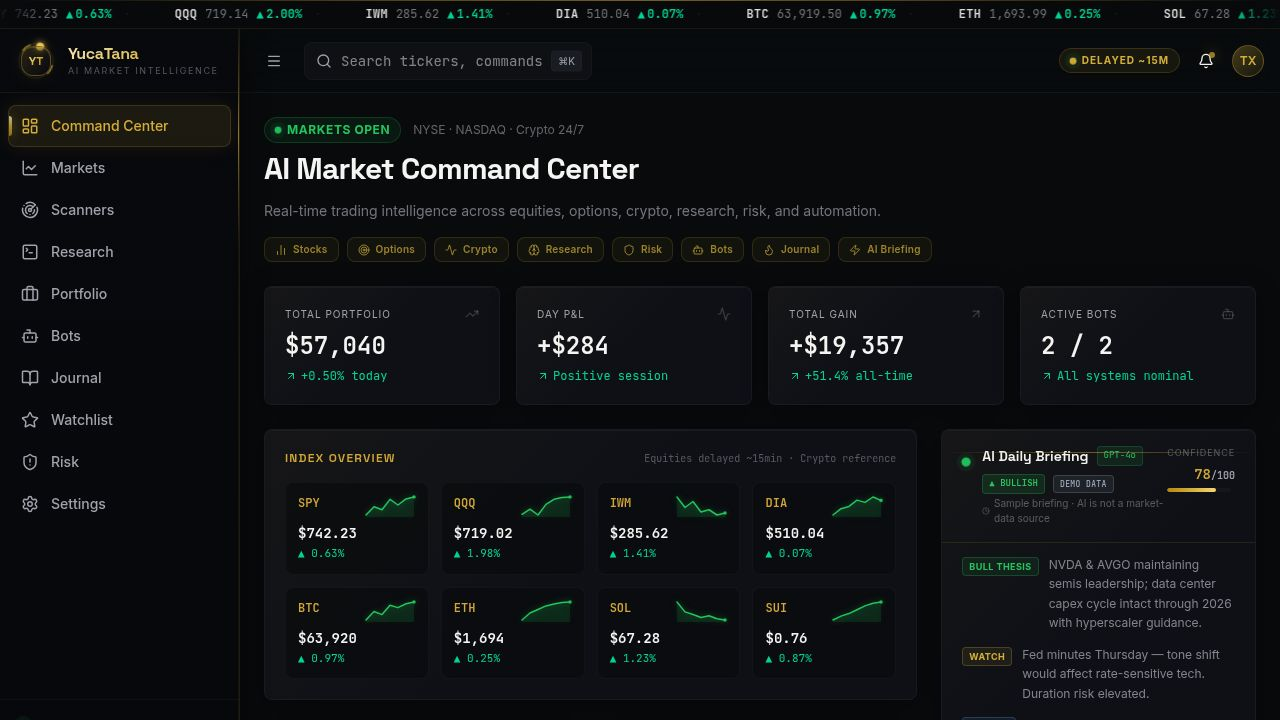
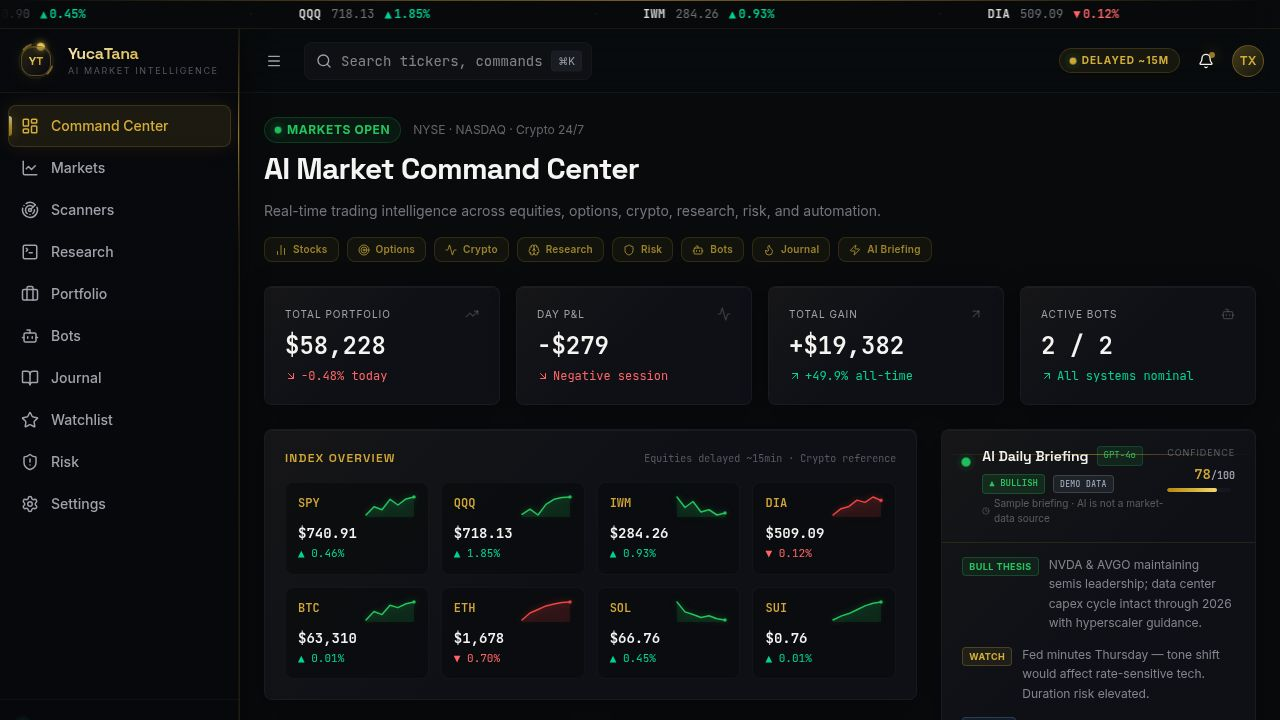
feat: live ticker tape with smart polling, price flash animations, and source badges
Task: Add a live ticker tape that auto-refreshes prices every 30 seconds

Changes to artifacts/yucatanatrades/src/hooks/use-market.ts:
- Split TICKER_SYMBOLS into EQUITY_TICKER_SYMBOLS and CRYPTO_TICKER_SYMBOLS
  so each subset can be polled at its own cadence independently
- Added useTickerQuotes() with a 3-state polling cadence:
    equities open           → 30s for both equities and crypto
    equities closed + crypto open → 5min for equities, 60s for crypto
    both closed             → 5min for both
  This matches the spec ("30s for equities, 60s for crypto during off-hours,
  5min when market is closed") without throttling 24/7 crypto to 5min
- Session itself is polled every 2 min (was 5 min) so cadence transitions
  happen within 2 minutes of a real market open/close event
- Hook returns { quotes, isError, equitiesOpen } — no more data.quotes unwrap

Changes to artifacts/yucatanatrades/src/components/ticker-tape.tsx:
- Switched from useMarketQuotes(TICKER_SYMBOLS) to useTickerQuotes()
- Added price flash animation: compares prev vs current price on each refetch,
  fires a 0.9s ease-out keyframe (price-flash-up / price-flash-down) on change;
  uses useRef to track previous prices and setTimeout to clear flash state
- Added inline source badge (e.g. "DELAYED · Yahoo Finance") that fades in on
  group-hover; color-coded by trust tone (live=emerald, delayed=amber,
  ref=blue, stale=red) matching quoteBadge() output
[…]

diff --git a/artifacts/yucatanatrades/src/components/ticker-tape.tsx b/artifacts/yucatanatrades/src/components/ticker-tape.tsx
@@ -1,23 +1,51 @@
 import * as React from "react";
 import { cn } from "@/lib/utils";
 import {
-  useMarketQuotes,
-  TICKER_SYMBOLS,
+  useTickerQuotes,
   formatPrice,
   isQuoteUsable,
+  quoteBadge,
   quoteTooltip,
   type Quote,
 } from "@/hooks/use-market";
 
+type FlashMap = Record<string, "up" | "down">;
+
 export function TickerTape() {
-  const { data, isError } = useMarketQuotes(TICKER_SYMBOLS);
+  const { quotes: rawQuotes, isError } = useTickerQuotes();
 
   const quotes: Quote[] = React.useMemo(
-    () => (data?.quotes ?? []).filter(isQuoteUsable),
-    [data],
+    () => rawQuotes.filter(isQuoteUsable),
+    [rawQuotes],
   );
 
-  // Honest empty/error state — never fabricate a scrolling tape.
+  // Track previous prices so we can detect changes and fire flash animations.
+  const prevPricesRef = React.useRef<Record<string, number>>({});
+  const [flashes, setFlashes] = React.useState<FlashMap>({});
+
+  React.useEffect(() => {
+    if (quotes.length === 0) return;
+
+    const newFlashes: FlashMap = {};
+    let hasChanges = false;
+
+    for (const q of quotes) {
+      const prev = prevPricesRef.current[q.symbol];
+      if (prev !== undefined && prev !== q.price) {
+        newFlashes[q.symbol] = q.price > prev ? "up" : "down";
+        hasChanges = true;
+      }
+      prevPricesRef.current[q.symbol] = q.price;
+    }
+
+    if (!hasChanges) return;
+
+    setFlashes(newFlashes);
+    const timer = setTimeout(() => setFlashes({}), 900);
+    return () => clearTimeout(timer);
+  }, [quotes]);
+
+  // Honest empty / error state — never fabricate a scrolling tape.
   if (quotes.length === 0) {
     return (
       <div className="flex items-center justify-center border-b border-primary/10 py-1.5 font-mono text-xs whitespace-nowrap z-50 bg-background/95 backdrop-blur-sm text-muted-foreground/50">
@@ -44,37 +72,91 @@ export function TickerTape() {
       />
 
       <div className="flex animate-[ticker_35s_linear_infinite]">
-        {[...quotes, ...quotes, ...quotes].map((item, i) => (
-          <div key={`${item.symbol}-${i}`} title={quoteTooltip(item)} className="flex items-center mx-5 gap-2 group cursor-help">
-            <span className="font-bold text-foreground/90 tracking-wide group-hover:text-primary transition-colors duration-200">
-              {item.symbol}
-            </span>
-            <span className="text-muted-foreground/70 tabular-nums">
-              {formatPrice(item.price)}
-            </span>
-            <span
-              className={cn(
-                "font-semibold tabular-nums",
-                item.changePercent >= 0 ? "text-emerald-400" : "text-red-400"
-              )}
+        {[...quotes, ...quotes, ...quotes].map((item, i) => {
+          const flash = flashes[item.symbol];
+          const badge = quoteBadge(item);
+
+          return (
+            <div
+              key={`${item.symbol}-${i}`}
+              title={quoteTooltip(item)}
+              className="flex items-center mx-5 gap-2 group cursor-help"
             >
-              {item.changePercent >= 0 ? "▲" : "▼"}&thinsp;
-              {Math.abs(item.changePercent).toFixed(2)}%
-            </span>
-            <span className="text-border/60 select-none mx-1">·</span>
-          </div>
-        ))}
+              <span className="font-bold text-foreground/90 tracking-wide group-hover:text-primary transition-colors duration-200">
+                {item.symbol}
+              </span>
+
+              {/* Price — flashes green/red when it changes */}
+              <span
+                className={cn(
+                  "tabular-nums rounded px-0.5 transition-colors",
+                  flash === "up" &&
+                    "animate-[price-flash-up_0.9s_ease-out] text-emerald-300",
+                  flash === "down" &&
+                    "animate-[price-flash-down_0.9s_ease-out] text-red-300",
+                  !flash && "text-muted-foreground/70",
+                )}
+              >
+                {formatPrice(item.price)}
+              </span>
+
+              <span
+                className={cn(
+                  "font-semibold tabular-nums",
+                  item.changePercent >= 0 ? "text-emerald-400" : "text-red-400",
+                )}
+              >
+                {item.changePercent >= 0 ? "▲" : "▼"}&thinsp;
+                {Math.abs(item.changePercent).toFixed(2)}%
+              </span>
+
+              {/* Source badge — fades in on hover, stays within tape bounds */}
+              <span
+                className={cn(
+                  "opacity-0 group-hover:opacity-100 transition-opacity duration-150",
+                  "px-1.5 py-px rounded text-[9px] font-semibold border leading-tight",
+                  badge.tone === "live" &&
+                    "bg-emerald-500/15 text-emerald-300 border-emerald-500/30",
+                  badge.tone === "delayed" &&
+                    "bg-amber-500/15 text-amber-300 border-amber-500/30",
+                  badge.tone === "ref" &&
+                    "bg-blue-500/15 text-blue-300 border-blue-500/30",
+                  badge.tone === "stale" &&
+                    "bg-red-500/15 text-red-300 border-red-500/30",
+                )}
+              >
+                {badge.text}&thinsp;·&thinsp;{item.sourceLabel}
+              </span>
+
+              <span className="text-border/60 select-none mx-1">·</span>
+            </div>
+          );
+        })}
       </div>
 
-      <style dangerouslySetInnerHTML={{ __html: `
+      <style
+        dangerouslySetInnerHTML={{
+          __html: `
         @keyframes ticker {
           0%   { transform: translateX(0); }
           100% { transform: translateX(-33.33%); }
         }
-        @media (prefers-reduced-motion: reduce) {
-          .animate-\\[ticker_35s_linear_infinite\\] { animation: none; }
+        @keyframes price-flash-up {
+          0%   { color: rgb(110 231 183); background-color: rgb(52 211 153 / 0.18); }
+          100% { color: inherit; background-color: transparent; }
         }
-      ` }} />
+        @keyframes price-flash-down {
+          0%   { color: rgb(252 165 165); background-color: rgb(248 113 113 / 0.18); }
+          100% { color: inherit; background-color: transparent; }
+        }
+        @media (prefers-reduced-motion: reduce) {
+          .animate-\\[ticker_35s_linear_infinite\\]   { animation: none; }
+          .animate-\\[price-flash-up_0\\.9s_ease-out\\]   { animation: none; }
+          .animate-\\[price-flash-down_0\\.9s_ease-out\\] { animation: none; }
+        }
+      `,
+        }}
+      />
     </div>
   );
 }

diff --git a/artifacts/yucatanatrades/src/hooks/use-market.ts b/artifacts/yucatanatrades/src/hooks/use-market.ts
@@ -10,11 +10,17 @@ import {
   type Quote,
 } from "@workspace/api-client-react";
 
-// Symbols shown in the scrolling ticker tape.
+// Equity and crypto symbols shown in the scrolling ticker tape.
+// Kept separate so each subset can poll at its own cadence.
+export const EQUITY_TICKER_SYMBOLS = [
+  "SPY", "QQQ", "IWM", "DIA", "MSFT", "NVDA", "AVGO",
+] as const;
+export const CRYPTO_TICKER_SYMBOLS = ["BTC", "ETH", "SOL", "SUI"] as const;
+
+// Full ordered list (equities first, then crypto) — used for display ordering.
 export const TICKER_SYMBOLS = [
-  "SPY", "QQQ", "IWM", "DIA",
-  "BTC", "ETH", "SOL", "SUI",
-  "MSFT", "NVDA", "AVGO",
+  ...EQUITY_TICKER_SYMBOLS,
+  ...CRYPTO_TICKER_SYMBOLS,
 ] as const;
 
 // Symbols shown in the Command Center "Index Overview" grid.
@@ -43,6 +49,37 @@ export function useMarketSession(refetchMs = 60_000) {
       staleTime: 30_000,
     },
   });
+}
+
+/**
+ * Ticker-tape aware quotes hook — 3-state cadence:
+ *   equities open          → 30 s  for both equities and crypto
+ *   equities closed + crypto open → 5 min for equities, 60 s for crypto
+ *   both closed            → 5 min for both
+ *
+ * Session is polled every 2 minutes so cadence transitions happen within 2
+ * minutes of an actual market open/close event.
+ */
+export function useTickerQuotes() {
+  const { data: session } = useMarketSession(2 * 60_000);
+  const equitiesOpen = session?.equities?.isOpen ?? false;
+  // Crypto markets are 24/7; default to open when session hasn't loaded yet.
+  const cryptoOpen = session?.crypto?.isOpen ?? true;
+
+  const equityRefetchMs = equitiesOpen ? 30_000 : 5 * 60_000;
+  const cryptoRefetchMs = equitiesOpen ? 30_000 : cryptoOpen ? 60_000 : 5 * 60_000;
+
+  const equityResult = useMarketQuotes(EQUITY_TICKER_SYMBOLS, equityRefetchMs);
+  const cryptoResult = useMarketQuotes(CRYPTO_TICKER_SYMBOLS, cryptoRefetchMs);
+
+  return {
+    quotes: [
+      ...(equityResult.data?.quotes ?? []),
+      ...(cryptoResult.data?.quotes ?? []),
+    ],
+    isError: equityResult.isError && cryptoResult.isError,
+    equitiesOpen,
+  };
 }
 
 export function useSourceHealth(refetchMs = 60_000) {